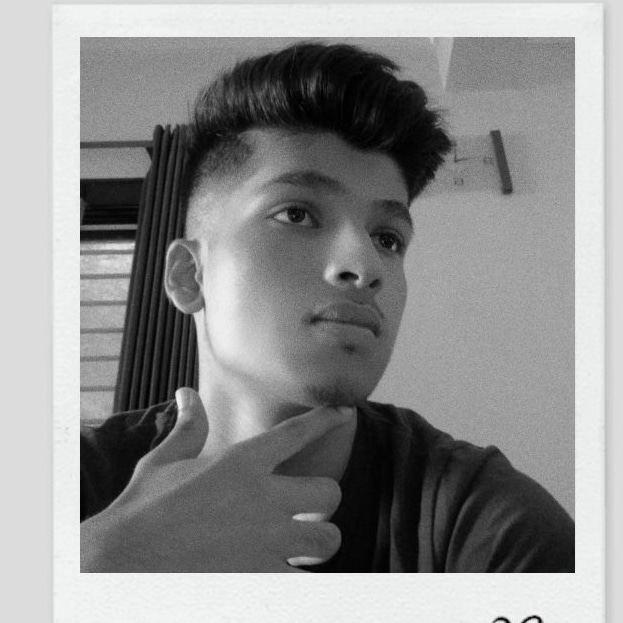
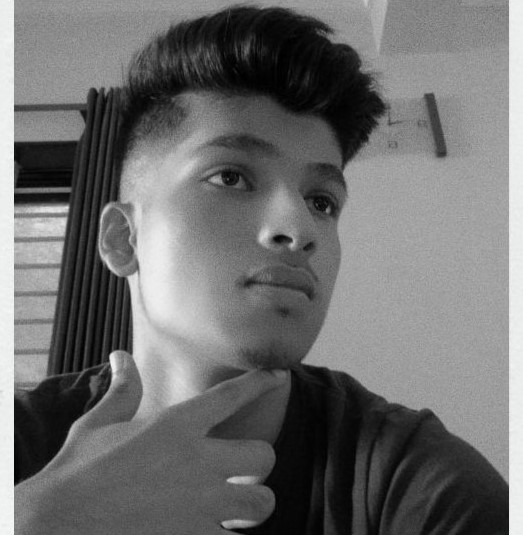
Teams page images cropped.

diff --git a/src/containers/team/Team.js b/src/containers/team/Team.js
@@ -17,7 +17,6 @@ import Electronics_Member_2 from '../../assests/images/Community/Members/Electro
 import Electronics_Member_3 from '../../assests/images/Community/Members/Electronics/Arnav_Vinod.png';
 // import Electronics_Member_4 from './Community/Members/Electronics/Siddarth_Patel.jpg';
 // import Electronics_Member_5 from './Community/Members/Electronics/Abhinav_Suresh.jpg';
-// import Electronics_Member_6 from './Community/Members/Electronics/Soham_Redkar.jpg';
 import Electronics_Member_7 from '../../assests/images/Community/Members/Electronics/Aarohi_Mishra.jpg';
 import Electronics_Member_8 from '../../assests/images/Community/Members/Electronics/Arupta_Kamble.jpeg';
 import Electronics_Member_9 from '../../assests/images/Community/Members/Electronics/Siya_Naulakha.jpg';
@@ -37,14 +36,12 @@ import Business_Member_7 from '../../assests/images/Community/Members/Business/L
 import Business_Member_8 from '../../assests/images/Community/Members/Business/Aniket_Iyer.jpg';
 // import Business_Member_9 from '../../assests/images/Community/Members/Business/Aditi_Gupta.jpg';
 import Business_Member_10 from '../../assests/images/Community/Members/Business/Tarini_Bambolkar.jpeg';
-// import Business_Member_11 from '../../assests/images/Community/Members/Business/Vraj_Patel.jpg';
 // import Marketing_Member_1 from '../../assests/images/Community/Members/Business/Minit_Shah.jpg';
 // import Marketing_Member_2 from '../../assests/images/Community/Members/Business/Shrusti_Vora.jpg';
 // import Marketing_Member_3 from '../../assests/images/Community/Members/Business/Joyeeta_Basu.jpg';
 import Marketing_Member_4 from '../../assests/images/Community/Members/Business/Varun_Shah.jpg';
 import Marketing_Member_5 from '../../assests/images/Community/Members/Business/Anusha_Sarkar.jpg';
 // import Marketing_Member_6 from '../../assests/images/Community/Members/Business/Rishi_Shanbhag.jpg';
-import Marketing_Member_7 from '../../assests/images/Community/Members/Business/Mann_Dutiya.jpg';
 
 
 
@@ -79,7 +76,7 @@ const Team = () => {
           {
             name: 'Mit Mhatre',
             image: Computer_Systems_Member_7,
-            description: 'ROS, IP'
+            description: 'ROS, IP Head'
           },
           {
             name: 'Yash Mahajan',
@@ -122,11 +119,6 @@ const Team = () => {
           },
           {
             name: 'Abhinav Suresh',
-            image: 'https://dummyimage.com/300',
-            description: 'Avionics'
-          },
-          {
-            name: 'Soham Redkar',
             image: 'https://dummyimage.com/300',
             description: 'Avionics'
           },
@@ -191,7 +183,7 @@ const Team = () => {
         {
             name: 'Aayushi Wani',
             image: 'https://dummyimage.com/300',
-            description: 'Creative Executive'
+            description: 'Creative Head'
           },
           {
             name: 'Akshita Shetty',
@@ -233,11 +225,6 @@ const Team = () => {
             image: Business_Member_10,
             description: 'Logistics'
           },
-          {
-            name: 'Vraj Patel',
-            image: 'https://dummyimage.com/300',
-            description: 'Logistics'
-          }
           
         // Add more team members as needed
       ];
@@ -246,7 +233,7 @@ const Team = () => {
         {
           name: 'Minit Shah',
           image: 'https://dummyimage.com/300',
-          description: 'Marketing Executive'
+          description: 'Marketing Head'
         },
         {
           name: 'Shrusti Vora',
@@ -273,11 +260,6 @@ const Team = () => {
           image: 'https://dummyimage.com/300',
           description: 'Marketing and Publicity'
         },
-        {
-          name: 'Mann Dutiya',
-          image: Marketing_Member_7,
-          description: 'Marketing and Publicity'
-        }
       ];
         
 
